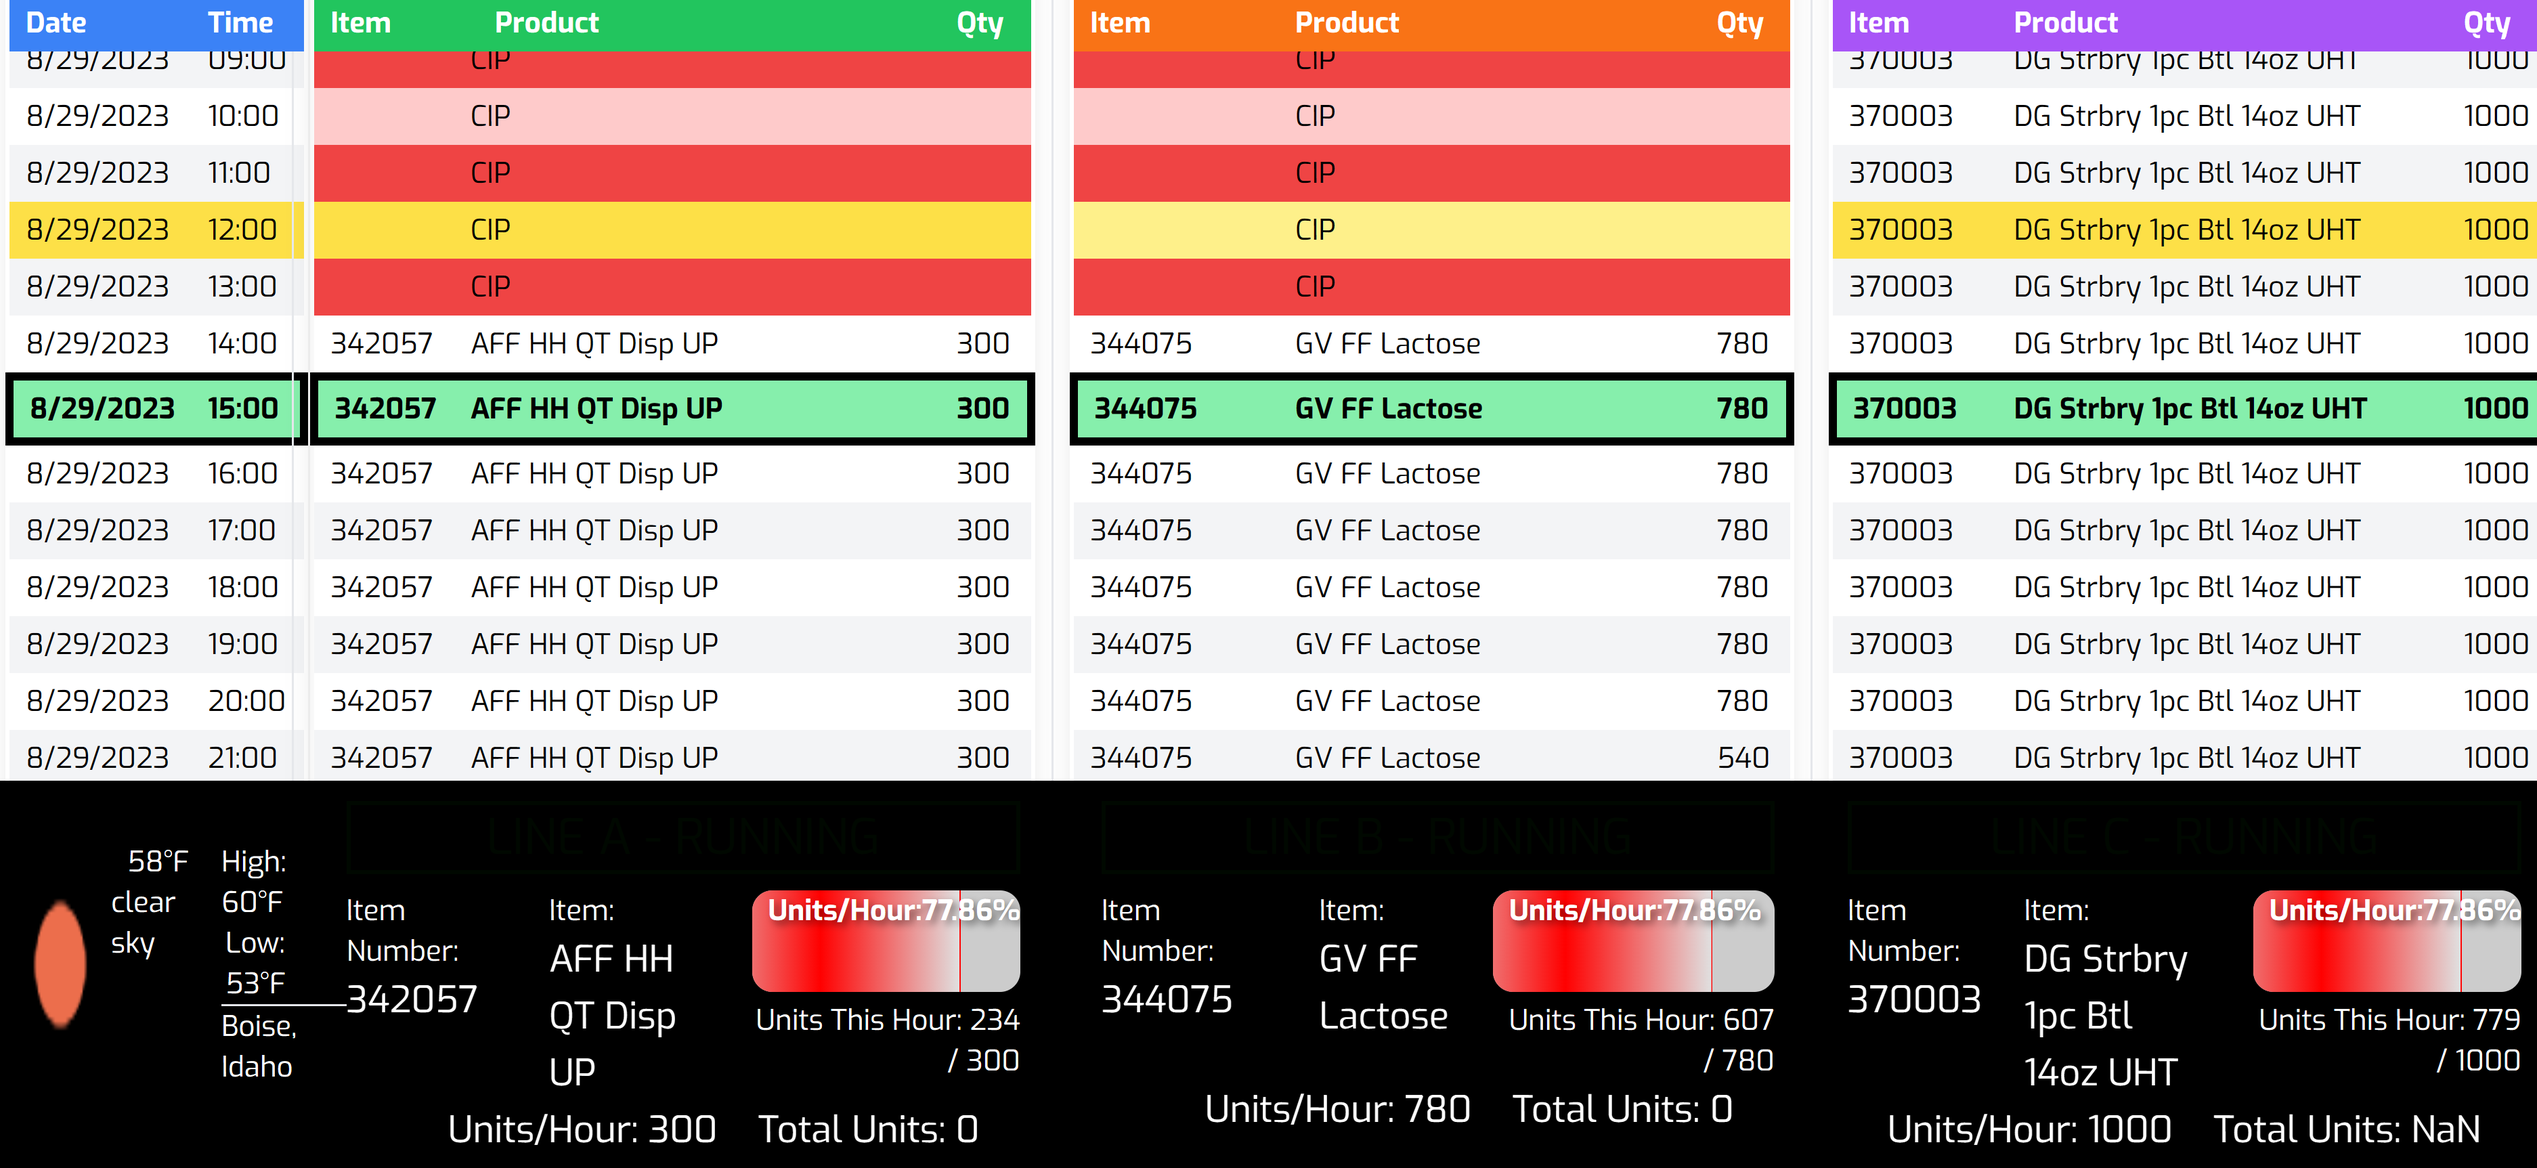
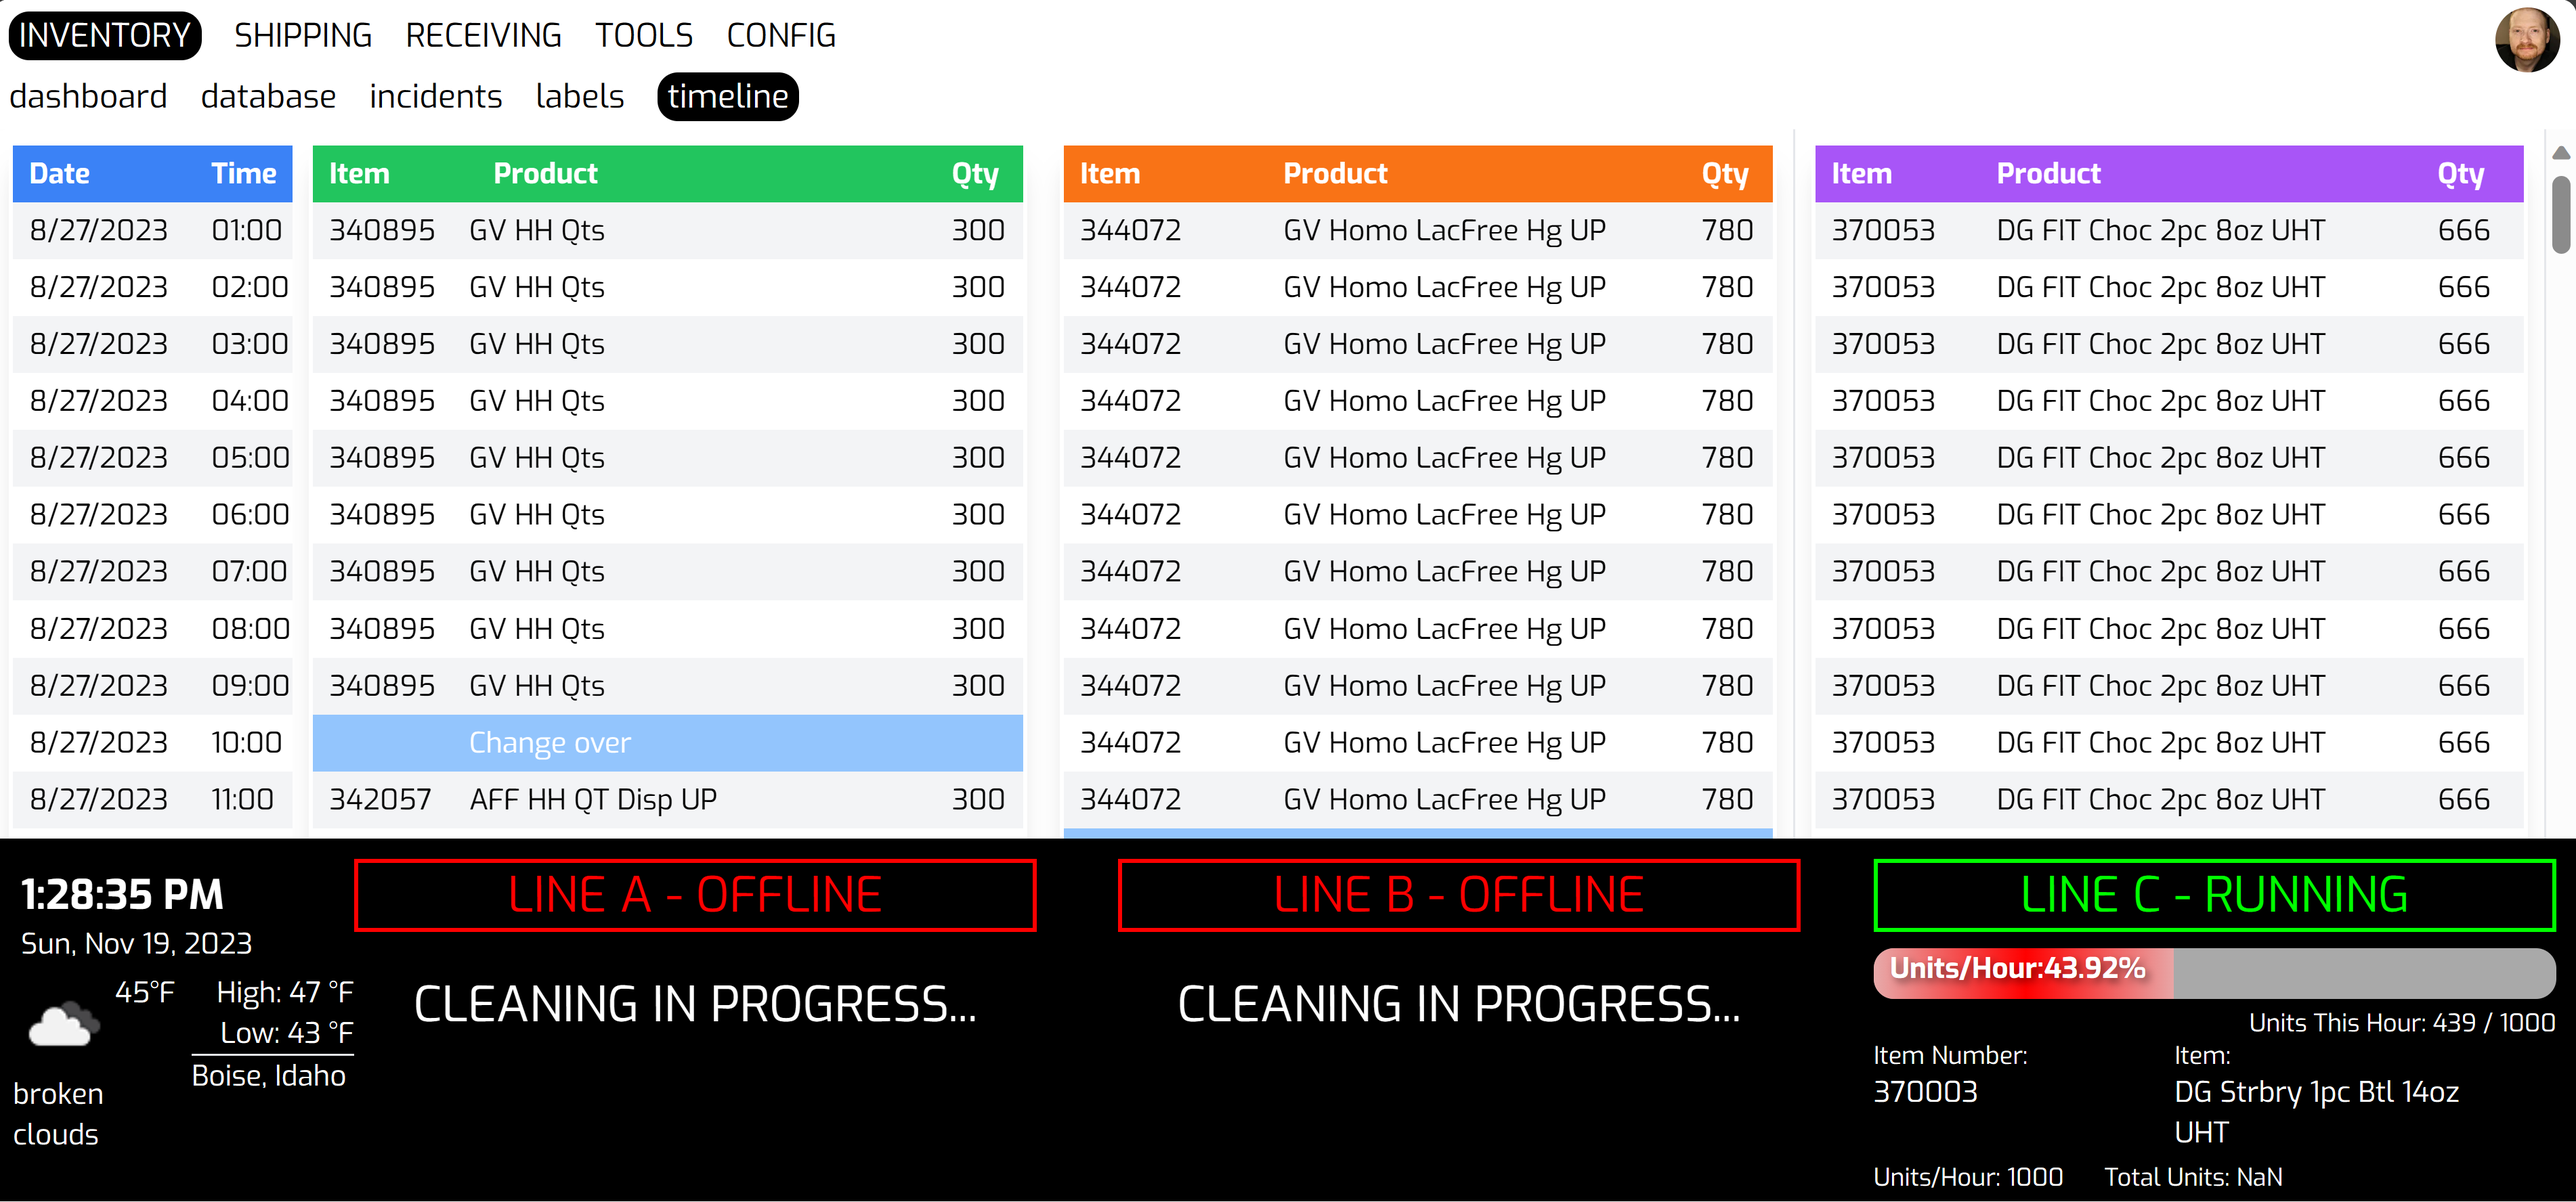
updated timeline stylings

diff --git a/components/inventory/Timeline/ProductionTable.jsx b/components/inventory/Timeline/ProductionTable.jsx
@@ -125,7 +125,7 @@ const ProductionTable = ({
 
   const tables = [dateAndTimeline, timelineA, timelineB, timelineC];
   return (
-    <div className="justify-around flex flex-col w-screen text-sm">
+    <div className="justify-around flex flex-col w-full text-sm overflow-x-auto">
       <StatTracker
         timelineA={timelineA}
         timelineB={timelineB}
@@ -135,14 +135,11 @@ const ProductionTable = ({
         unitsThisHour={unitsThisHour}
         timelineData={timelineData}
       />
-      <table className=" table-fixed rounded-lg shadow-lg w-screen">
+      <table className="table-fixed rounded-lg shadow-lg w-full">
         <tbody>
           <tr>
-            <td className="w-1/12 p-2 border-r" style={{ width: "10%" }}>
-              <table
-                className="w-1/12 min-h-[400px] rounded-lg shadow-lg"
-                style={{ width: "10%" }}
-              >
+            <td className=" p-2 overflow-hidden" style={{ width: "10%" }}>
+              <table className="w-full min-h-[400px] rounded-lg shadow-lg">
                 <thead>
                   <tr>
                     <th className="px-2 py-1 text-left bg-blue-500 text-white top-0 sticky ">
@@ -175,8 +172,8 @@ const ProductionTable = ({
                 </tbody>
               </table>
             </td>
-            <td className=" p-2 border-r" style={{ width: "25%" }}>
-              <table className="min-h-[400px] rounded-lg shadow-lg">
+            <td className=" p-2 overflow-hidden" style={{ width: "25%" }}>
+              <table className="min-w-full min-h-[400px] rounded-lg shadow-lg">
                 <thead>
                   <tr>
                     <th className="px-2 py-1 text-left bg-green-500 text-white top-0 sticky ">
@@ -227,8 +224,11 @@ const ProductionTable = ({
                 </tbody>
               </table>
             </td>
-            <td className="p-2 border-r" style={{ width: "25%" }}>
-              <table className="table-fixed min-h-[400px] rounded-lg shadow-lg">
+            <td
+              className="p-2 border-r overflow-hidden"
+              style={{ width: "25%" }}
+            >
+              <table className="min-w-full min-h-[400px] rounded-lg shadow-lg">
                 <thead>
                   <tr>
                     <th className="px-2 py-1 text-left bg-orange-500 text-white top-0 sticky">
@@ -275,8 +275,11 @@ const ProductionTable = ({
                 </tbody>
               </table>
             </td>
-            <td className=" p-2 border-r" style={{ width: "25%" }}>
-              <table className="table-fixed min-h-[400px] rounded-lg shadow-lg">
+            <td
+              className="overflow-hidden p-2 border-r"
+              style={{ width: "25%" }}
+            >
+              <table className="min-w-full min-h-[400px] rounded-lg shadow-lg">
                 <thead>
                   <tr>
                     <th className="px-2 py-1 text-left bg-purple-500 text-white top-0 sticky ">

diff --git a/components/inventory/Timeline/WeatherComponent.jsx b/components/inventory/Timeline/WeatherComponent.jsx
@@ -31,25 +31,27 @@ function WeatherComponent({ apiKey, city }) {
 
   return (
     <div className="flex flex-col">
-      <div className="weather-component flex flex-row text-sm">
-        <img
-          width="auto"
-          className=""
-          src={`http://openweathermap.org/img/wn/${weatherIcon}.png`}
-          alt="Weather Icon"
-        />
-        <div className="flex flex-col">
+      <div className="weather-component flex flex-row text-sm w-100">
+        <div className="flex flex-wrap justify-around w-1/2">
+          <img
+            width="auto"
+            className=""
+            src={`http://openweathermap.org/img/wn/${weatherIcon}.png`}
+            alt="Weather Icon"
+          />
           <p className="text-center text-sm">
             {Math.round(temperatureFahrenheit)}°F
           </p>
           <p className="text-sm">{weatherDescription}</p>
         </div>
-        <div className="flex flex-col ml-2">
-          <p className="text-sm">High: {Math.round(highTempFahrenheit)}°F</p>
-          <p className="text-sm ml-0.5">
-            {" "}
-            Low: {Math.round(lowTempFahrenheit)}°F
+        <div className="flex flex-col ml-2 w-1/2">
+          <p className="text-sm text-right">
+            High: {Math.round(highTempFahrenheit)} °F
           </p>
+          <p className="text-sm text-right">
+            Low: {Math.round(lowTempFahrenheit)} °F
+          </p>
+          <p className="text-sm ml-0.5"> </p>
           <p className="text-sm border-top border-t">{city}, Idaho</p>
         </div>
       </div>

diff --git a/components/inventory/Timeline/Timeline.jsx b/components/inventory/Timeline/Timeline.jsx
@@ -79,7 +79,7 @@ export default function Timeline() {
   };
 
   return (
-    <main className="text-sm flex w-screen mt-5 flex-col">
+    <main className="text-sm flex flex-col mt-1 overflow-x-auto">
       <DataReader
         setTimelineA={setTimelineA}
         setTimelineB={setTimelineB}
@@ -88,13 +88,17 @@ export default function Timeline() {
         timelineData={timelineData}
         fetchTimeline={fetchTimeline}
       />
-      <ProductionTable
-        timelineA={timelineA}
-        timelineB={timelineB}
-        timelineC={timelineC}
-        dateAndTimeline={dateAndTimeline}
-        timelineData={timelineData}
-      />
+      <div className="overflow-y-scroll max-h-[70vh]">
+        <ProductionTable
+          timelineA={timelineA}
+          timelineB={timelineB}
+          timelineC={timelineC}
+          dateAndTimeline={dateAndTimeline}
+          timelineData={timelineData}
+          // Responsive table classes
+          className="min-w-full divide-y divide-gray-200 sm:min-w-min"
+        />
+      </div>
     </main>
   );
 }

diff --git a/components/inventory/Timeline/DisplayTime.jsx b/components/inventory/Timeline/DisplayTime.jsx
@@ -13,15 +13,15 @@ const DisplayTime = () => {
 
   const formattedTime = currentDateTime.toLocaleTimeString();
   const formattedDate = currentDateTime.toLocaleDateString(undefined, {
-    weekday: "long",
+    weekday: "short",
     year: "numeric",
-    month: "long",
+    month: "short",
     day: "numeric",
   });
 
   return (
     <div>
-      <p className="text-sm font-bold">{formattedTime}</p>
+      <p className="text-xl font-bold">{formattedTime}</p>
       <p className="text-sm">{formattedDate}</p>
     </div>
   );

diff --git a/components/inventory/Timeline/TimeAndWeather.jsx b/components/inventory/Timeline/TimeAndWeather.jsx
@@ -3,11 +3,11 @@ import WeatherComponent from "./WeatherComponent";
 
 const TimeAndWeather = () => {
   return (
-    <div className=" flex flex-col items-left justify-left w-100">
+    <div className=" flex flex-col items-left w-100">
       <div className="text-lg p-1 text-left">
         <DisplayTime />
       </div>
-      <div className="mt-3">
+      <div className="">
         <WeatherComponent
           apiKey={process.env.NEXT_PUBLIC_WEATHER_API_KEY}
           city={"Boise"}
